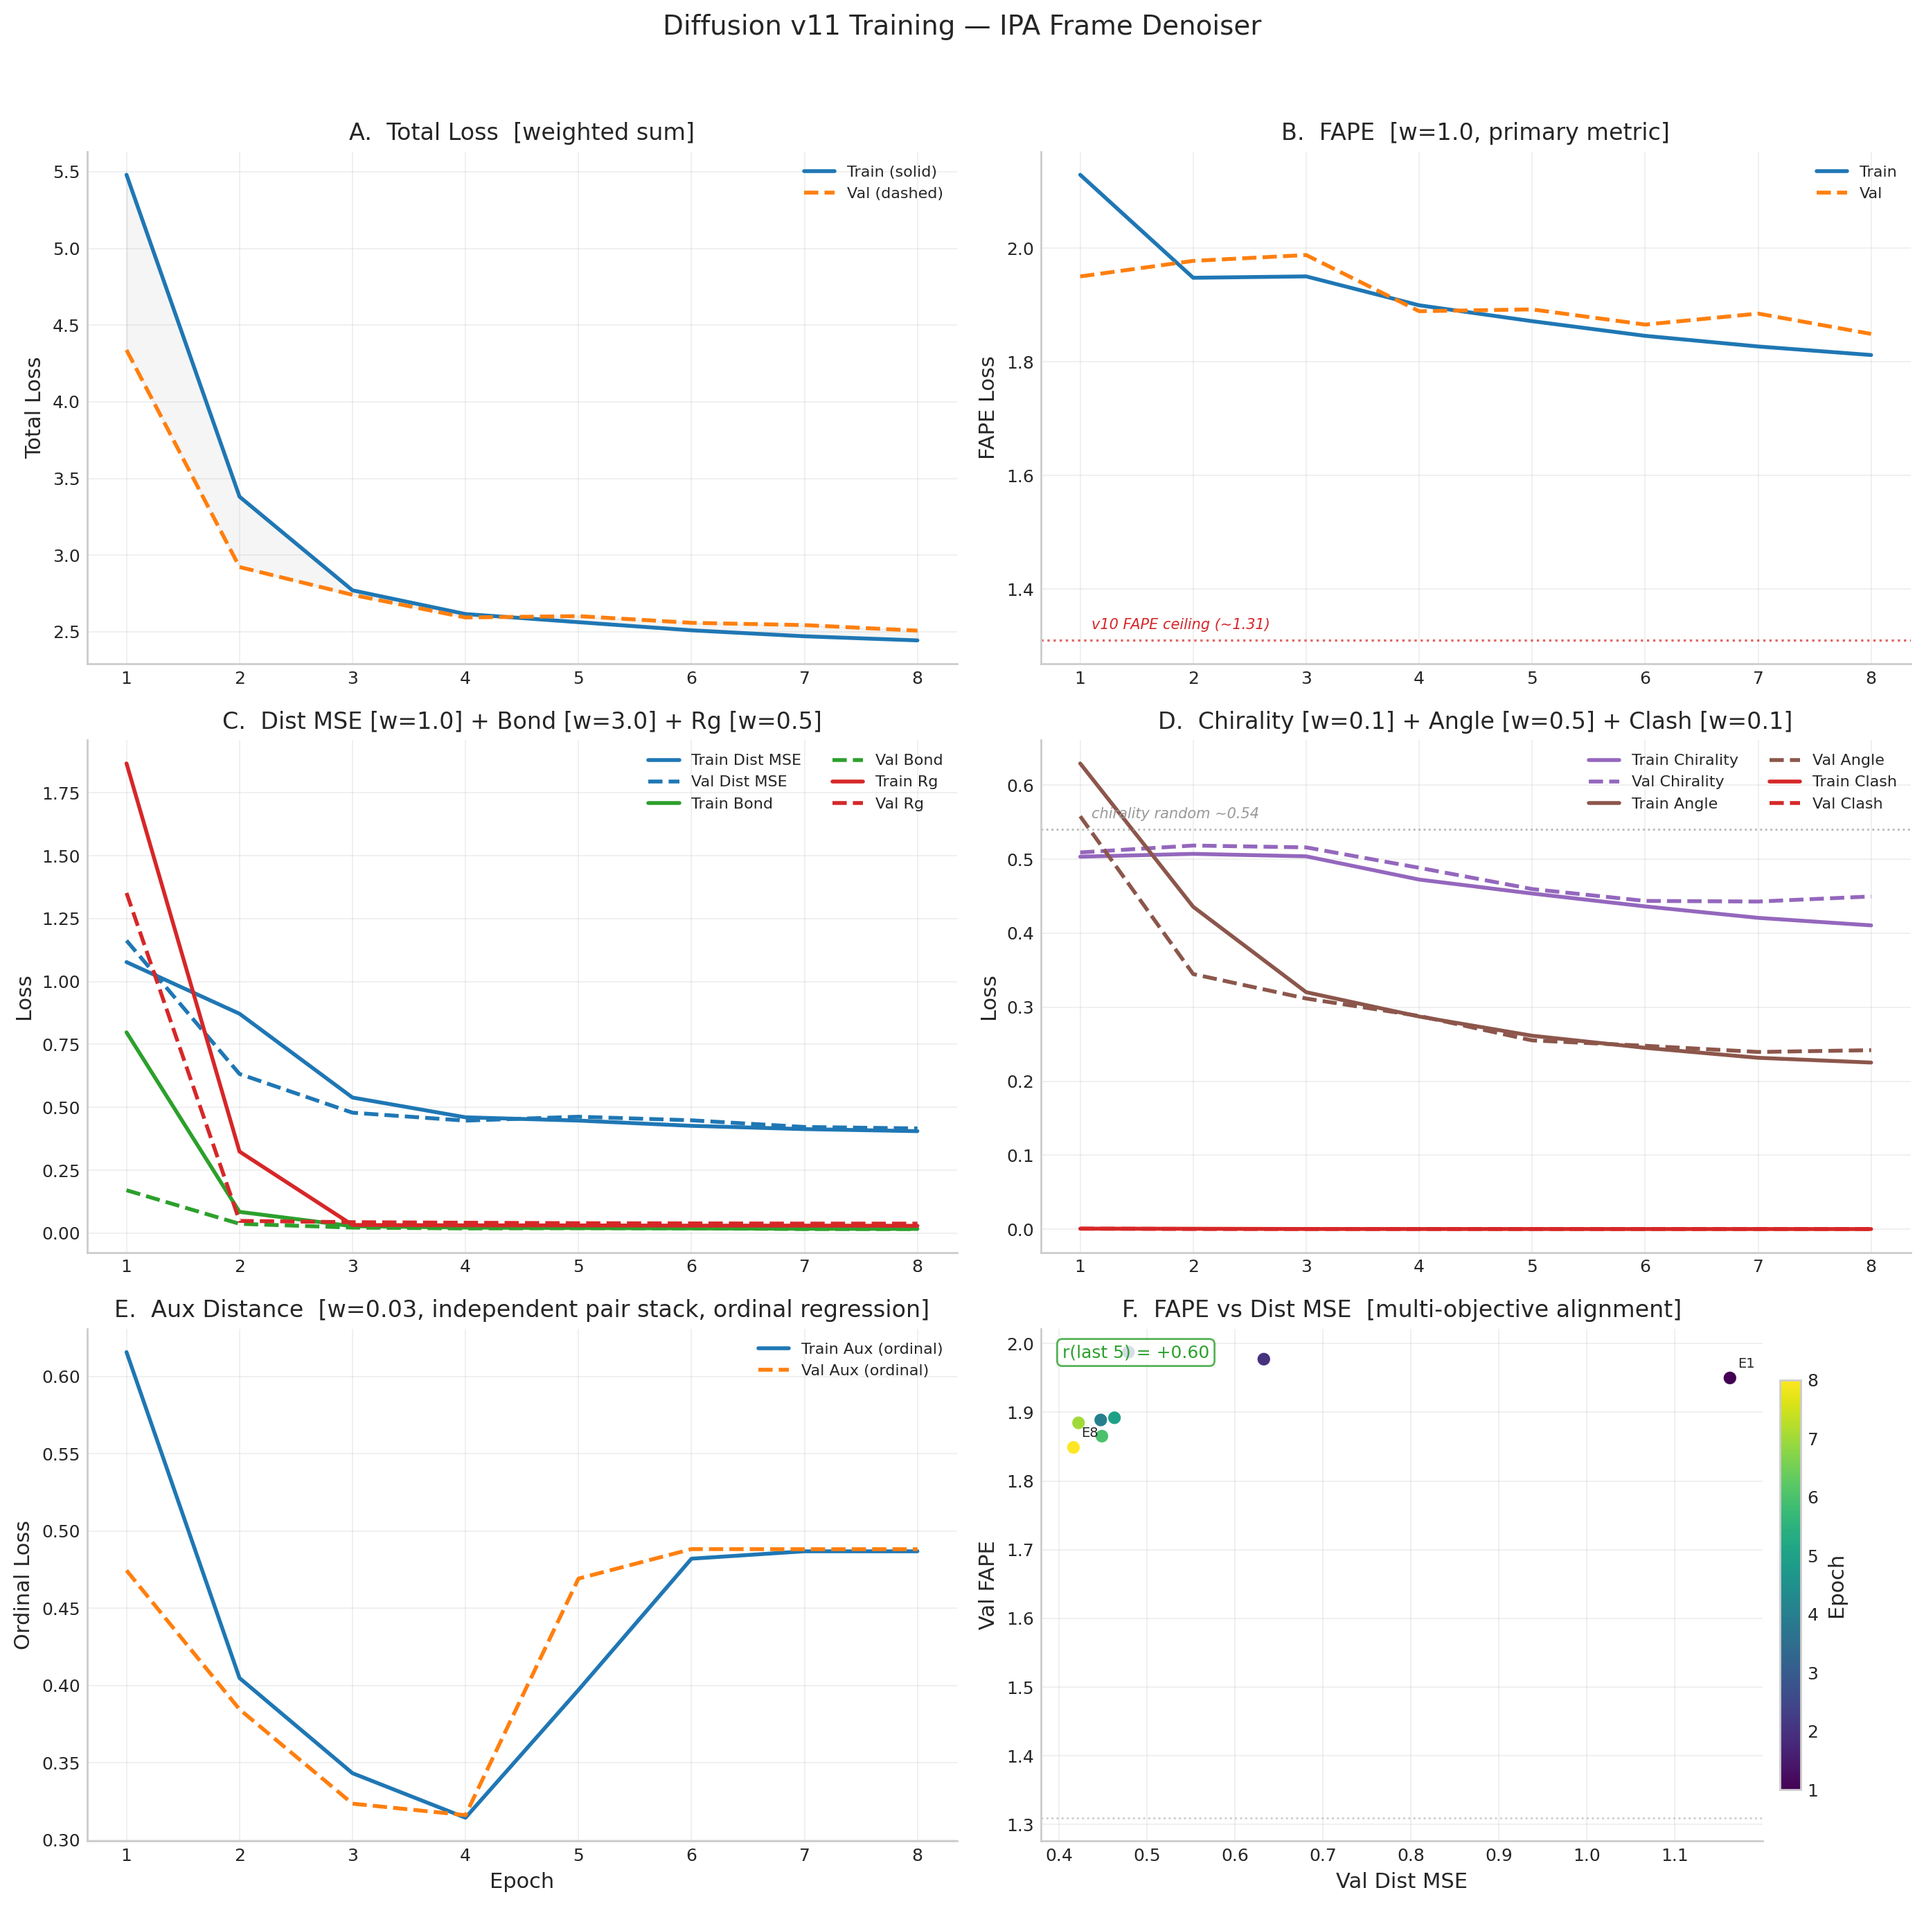
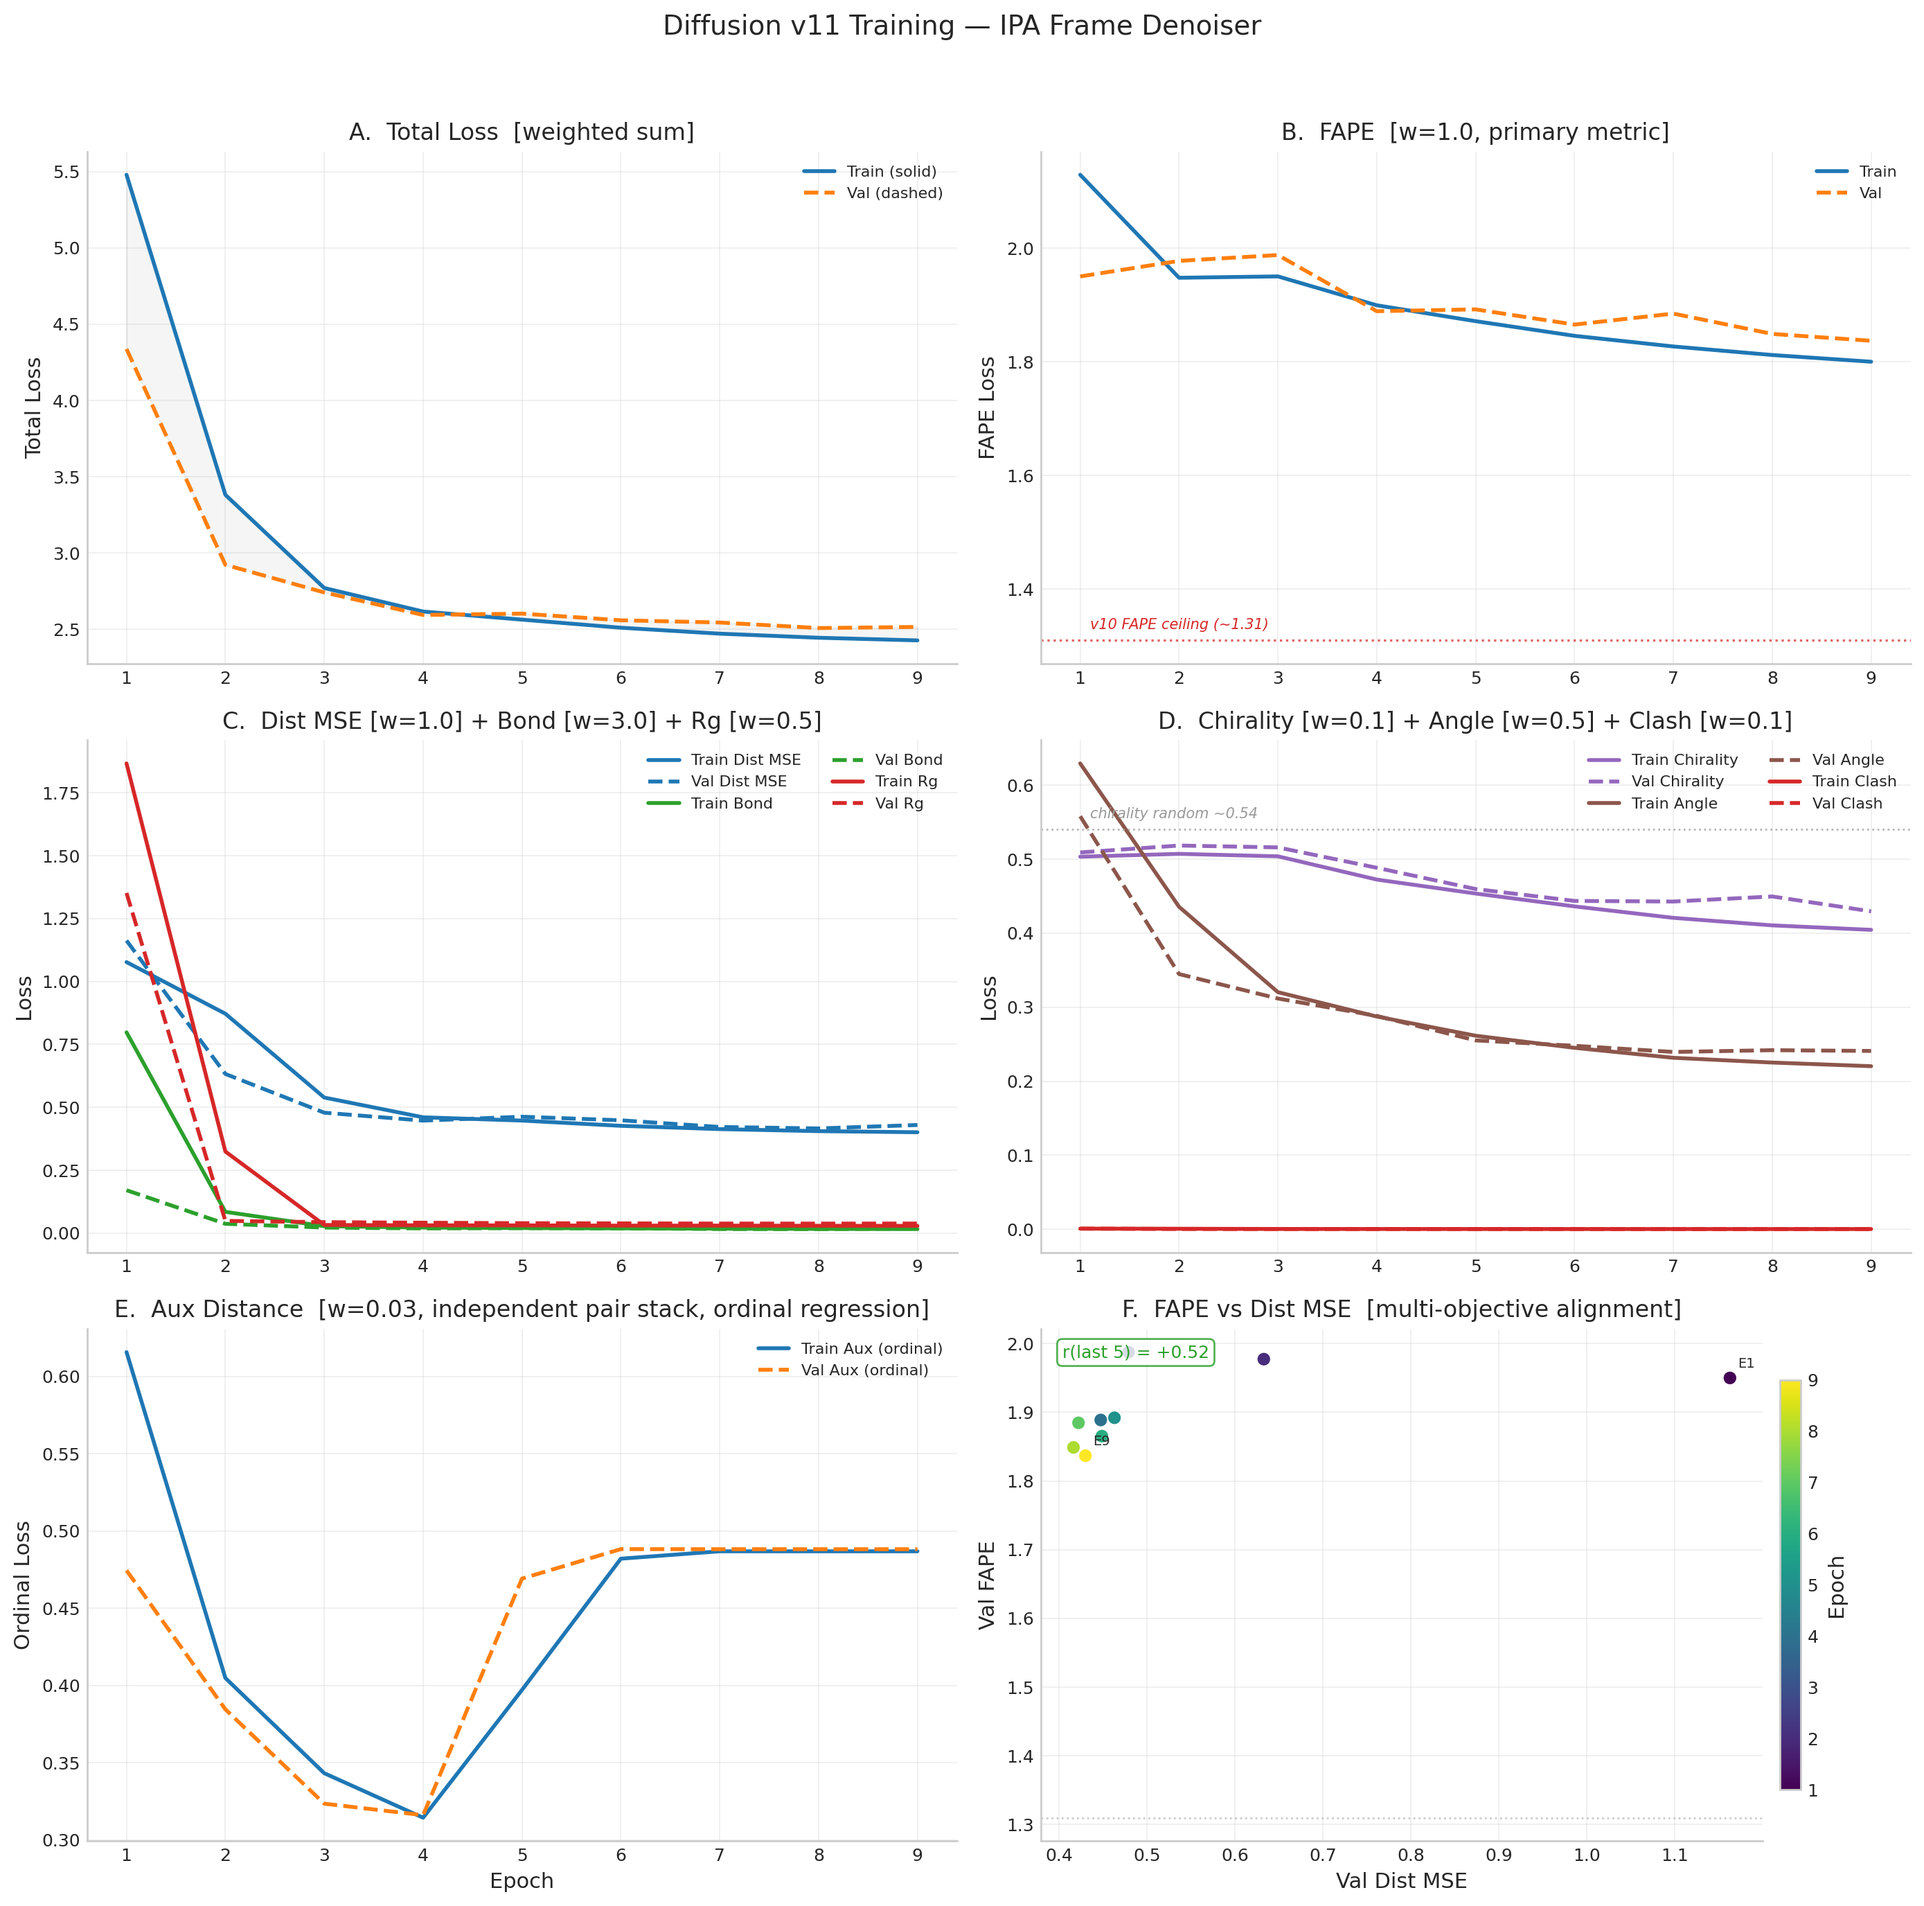
v11 E9: FAPE 1.837 (-5.8%), train FAPE breaks 1.8 — E10 checkpoint assessment

diff --git a/index.html b/index.html
@@ -1345,6 +1345,18 @@
                 <td>17.46&Aring;</td>
                 <td><span class="tag tag-best">NEW BEST</span></td>
               </tr>
+              <tr>
+                <td>9</td>
+                <td>2.514</td>
+                <td>1.837</td>
+                <td>0.430</td>
+                <td>0.018</td>
+                <td>0.038</td>
+                <td>0.488</td>
+                <td>0.090</td>
+                <td>17.80&Aring;</td>
+                <td><span class="tag tag-pat">pat 1</span></td>
+              </tr>
               <!-- New epochs will be added here by monitoring -->
             </tbody>
           </table>
@@ -1442,38 +1454,34 @@
 
         <!-- Status / Live interpretation -->
         <div class="training-pending-note" id="v9-run2-status">
-          <strong>v11 Epoch 8 &mdash; Steady FAPE Descent</strong>
+          <strong>v11 Epoch 9 &mdash; Approaching E10 Checkpoint</strong>
           <ul style="margin: 6px 0 6px 18px; font-size: 0.95em;">
-            <li><strong>val FAPE: 1.950 &rarr; 1.889 &rarr; 1.865 &rarr; 1.885 &rarr; 1.849</strong> &mdash; consistent downtrend.
-                Now 5.2% below E1. Train FAPE at 1.812 (7.1% below E1) &mdash; model learning faster than it generalizes.</li>
-            <li><strong>val dist_mse: 1.163 &rarr; 0.416</strong> &mdash; 64% below E1, steady improvement.</li>
-            <li><strong>val aux: stabilized at 0.488</strong> &mdash; flat since E5. The independent pair stack is holding steady
-                (no drift, no divergence). This is exactly the behavior the v11 redesign aimed for.</li>
-            <li><strong>DDIM: TM = 0.093&ndash;0.095 (E6&ndash;E8)</strong> &mdash; stuck below 0.10. Has not recovered to E3&rsquo;s
-                0.128 peak. This is the main concern: loss improvements aren&rsquo;t translating to sampling quality yet.</li>
-            <li><strong>Patience: 0/15</strong> &mdash; 6 of 8 epochs are NEW BEST. Training very stable.</li>
+            <li><strong>val FAPE: 1.950 &rarr; 1.849 &rarr; 1.837</strong> &mdash; 5.8% below E1. Train FAPE broke 1.8 (now 1.800,
+                7.7% below E1). Monotonic descent continues but slower than targeted.</li>
+            <li><strong>val dist_mse: 0.416 &rarr; 0.430</strong> &mdash; slight uptick, still 63% below E1.</li>
+            <li><strong>val aux: 0.488</strong> &mdash; perfectly stable for 5 consecutive epochs. Independent pair stack validated.</li>
+            <li><strong>DDIM: TM = 0.090, RMSD = 17.80&Aring;</strong> &mdash; flat at ~0.09 since E4. No recovery from E3 peak (0.128).
+                This is the primary concern heading into E10.</li>
+            <li><strong>Patience: 1/15</strong> &mdash; 7 of 9 epochs NEW BEST overall.</li>
           </ul>
-          <strong>2-Hour Analysis (E1&ndash;E8):</strong>
+          <strong>E10 Checkpoint Assessment:</strong>
           <p style="font-size: 0.92em; line-height: 1.55; margin: 6px 0;">
-            <strong>What&rsquo;s working:</strong> FAPE is on a clear, sustained downtrend &mdash; the IPA architecture is learning
-            frame consistency, exactly as designed. Distance, bond, angle, and chirality losses all improving monotonically.
-            Aux ordinal regression is rock-stable at ~0.49 (v10&rsquo;s head had diverged to 40+ by this point). Train-val gap
-            is narrow across all metrics (no overfitting).
+            <strong>FAPE:</strong> Falling steadily (5.8% below E1) but missed the 10%-by-E5 and 20%-by-E10 targets.
+            Train FAPE is pulling ahead (7.7%), indicating the model <em>is</em> learning frame consistency but generalization
+            lags. This is not a failure &mdash; FAPE is monotonically decreasing, which v10 never achieved.
             <br><br>
-            <strong>What&rsquo;s concerning:</strong> DDIM TM-score has been flat at ~0.09 since E4, despite loss improvements.
-            The E3 peak of 0.128 hasn&rsquo;t been replicated. Possible explanations: (1) DDIM sampling with EMA weights lags
-            training by several epochs; (2) the model is improving denoising at intermediate noise levels (which helps losses)
-            but not yet at high noise levels (which matters for full generation); (3) FAPE at 1.85 is still too high for
-            coherent topology &mdash; need FAPE &lt; 1.5 before DDIM structures look protein-like.
+            <strong>DDIM disconnect:</strong> The gap between improving losses and flat DDIM TM (~0.09) is the main concern.
+            Possible explanations: (1) FAPE at 1.84 is still far above the ~1.31 threshold where topology emerges &mdash; the
+            model hasn&rsquo;t yet crossed the &ldquo;topology phase transition&rdquo;; (2) EMA weights (0.999 decay) are slow to
+            incorporate recent improvements; (3) 50-step DDIM on a small val set is inherently noisy.
             <br><br>
-            <strong>Projection:</strong> At current FAPE descent rate (~0.02/epoch), the model will reach 1.75 by ~E13 and 1.5
-            by ~E23. This is slower than the 10%-by-E5 target but the trajectory is monotonic. The critical question is whether
-            FAPE descent will <em>accelerate</em> as the model enters a topology-learning phase (as happened in other IPA models)
-            or remain linear. We&rsquo;ll know by E12&ndash;E15.
+            <strong>Verdict: Continue training.</strong> The model is clearly learning (all structural losses improving, FAPE on
+            monotonic descent). Not recommending cancellation &mdash; the failure criteria (FAPE not improving, losses diverging)
+            are not met. Will reassess at E15 if FAPE hasn&rsquo;t broken below 1.75 or DDIM TM hasn&rsquo;t exceeded 0.15.
           </p>
         </div>
         <div style="color: var(--text-secondary); font-size: 0.85em; margin-top: 8px;" id="v9-last-updated">
-          Last updated: 2026-03-09 12:30 UTC &mdash; E8 complete
+          Last updated: 2026-03-09 12:50 UTC &mdash; E9 complete, E10 in progress
         </div>
 
         <!-- v10 Historical Results (collapsed) -->
